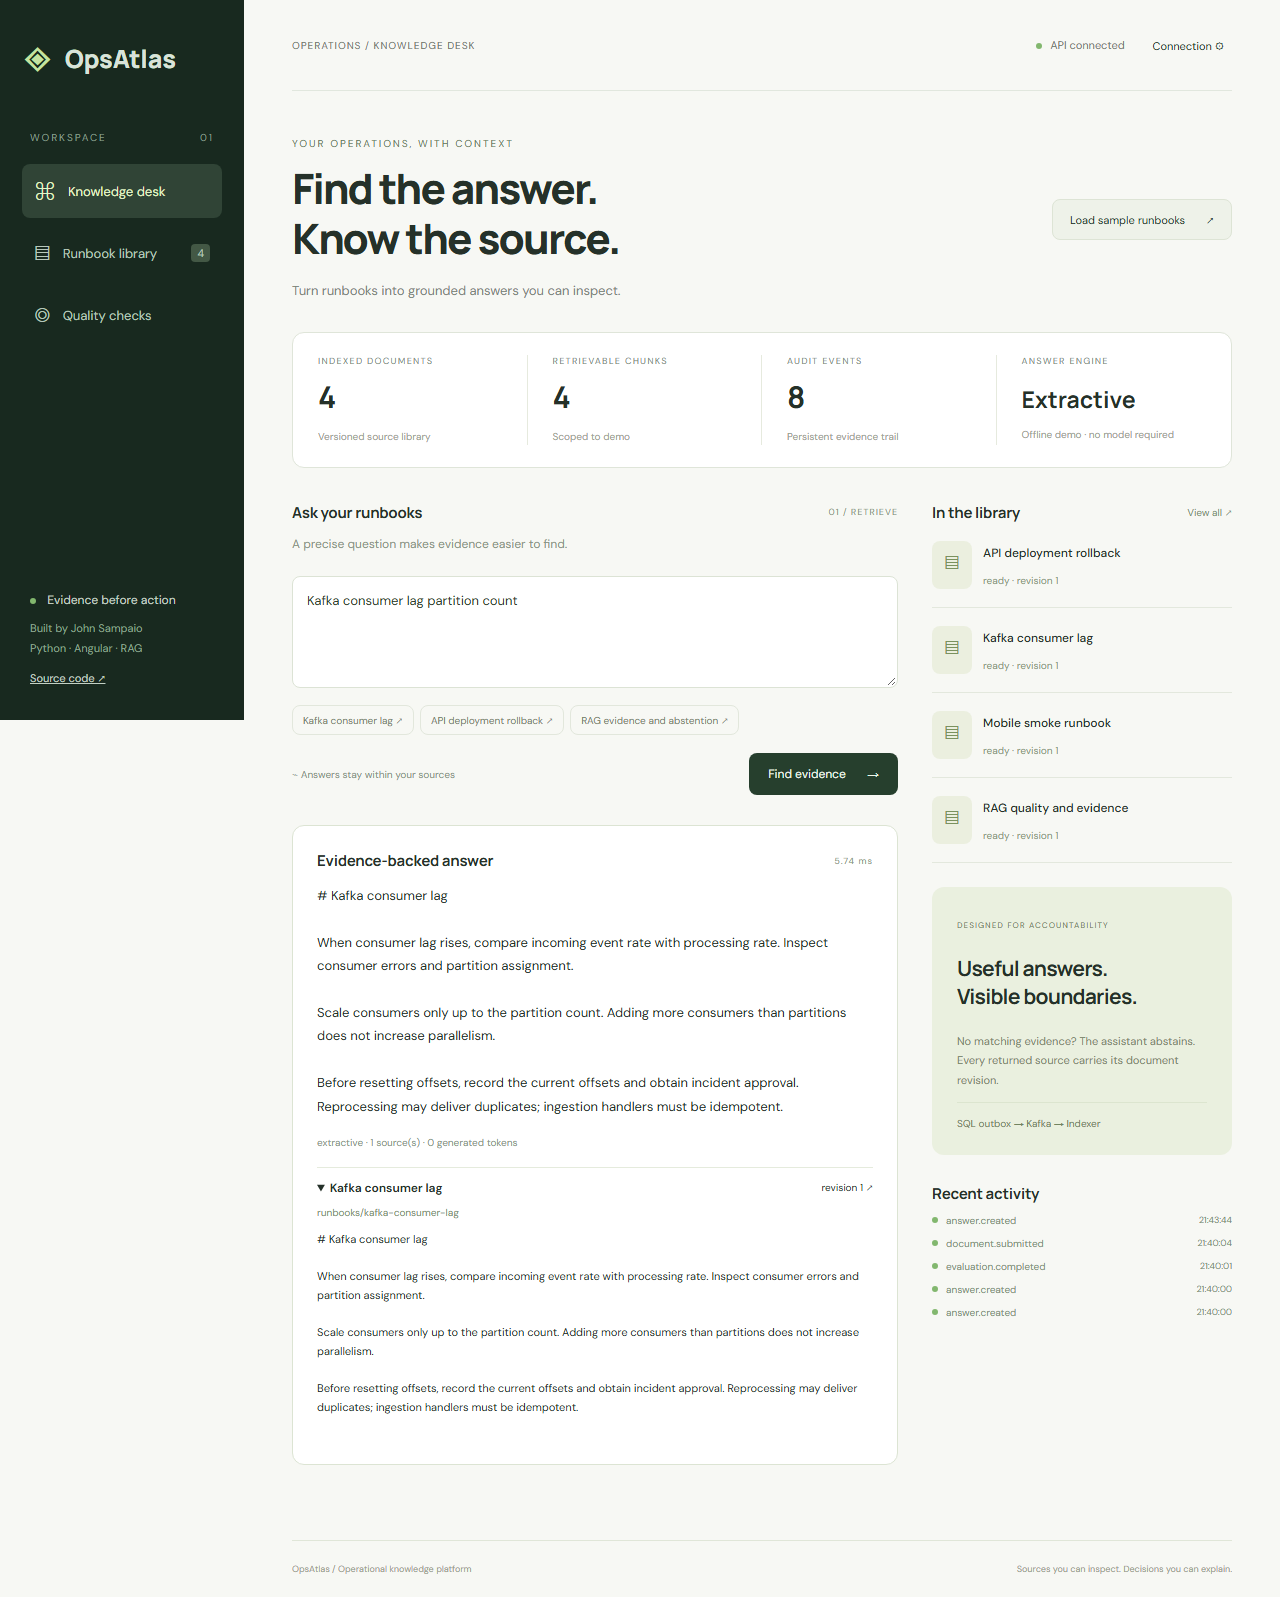
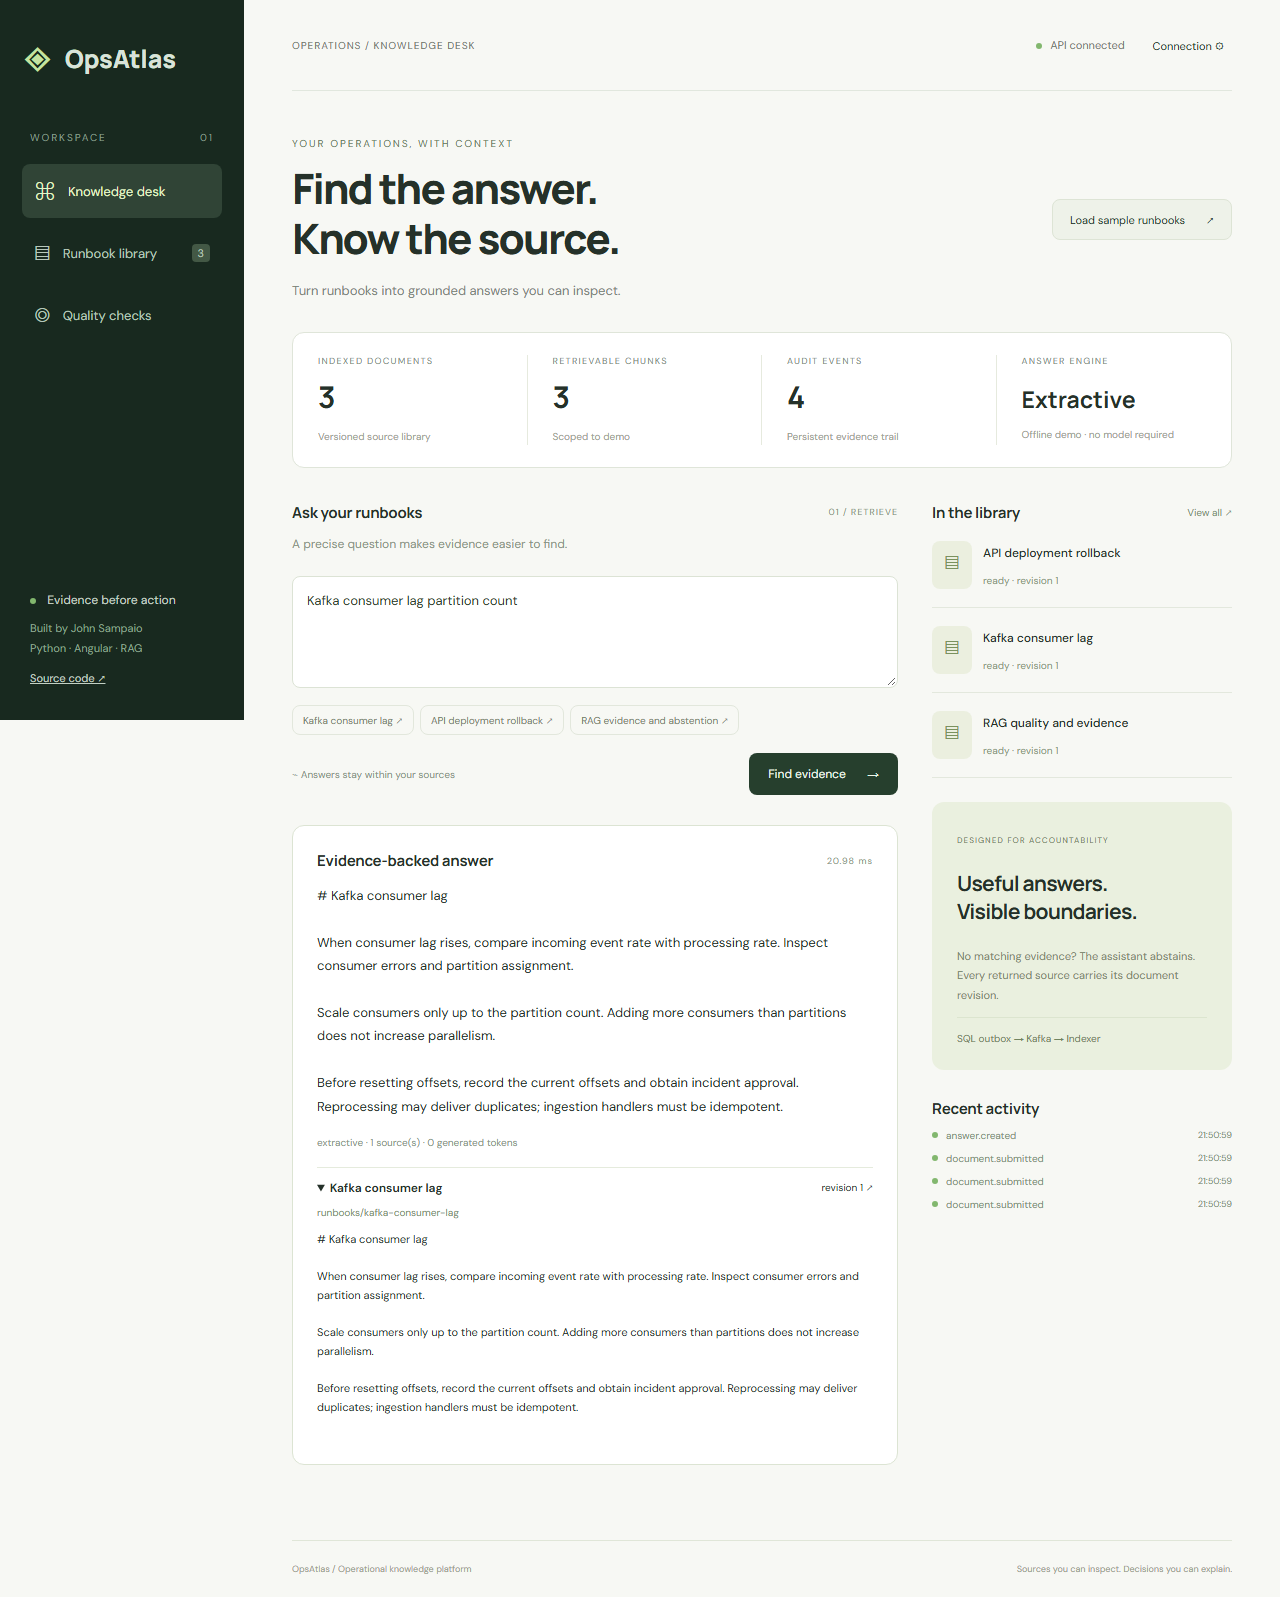
Validate provider contracts and execute Airflow quality tasks in CI

Changed region(s): [[0.7188, 0.4909, 0.9375, 0.8284], [0.9375, 0.7057, 0.9688, 0.8284], [0.7812, 0.4296, 0.875, 0.4602]]

diff --git a/web/playwright.config.ts b/web/playwright.config.ts
@@ -4,8 +4,7 @@ export default defineConfig({
   use: { baseURL: "http://127.0.0.1:4200", screenshot: "only-on-failure" },
   webServer: [
     {
-      command:
-        "uv run uvicorn opsatlas.api:create_app --factory --host 127.0.0.1 --port 8000",
+      command: "uv run python scripts/test_server.py",
       cwd: "..",
       url: "http://127.0.0.1:8000/health/ready",
       reuseExistingServer: !process.env["CI"],

diff --git a/tests/test_providers.py b/tests/test_providers.py
@@ -1,0 +1,87 @@
+import json
+
+import httpx
+import pytest
+
+from opsatlas.config import Settings
+from opsatlas.llm import answer
+from opsatlas.retrieval import embed
+
+
+@pytest.mark.parametrize(
+    "payload",
+    [
+        {"choices": []},
+        {"choices": [{"message": {"content": None}}]},
+        {"choices": [{"message": {"content": "invalid JSON"}}]},
+        {
+            "choices": [
+                {
+                    "message": {
+                        "content": json.dumps(
+                            {"answer": "answer", "citation_ids": ["source"], "abstained": False}
+                        )
+                    }
+                }
+            ],
+            "usage": {"completion_tokens": -1},
+        },
+    ],
+)
+def test_invalid_provider_responses_rejected(monkeypatch, payload):
+    monkeypatch.setattr(
+        "opsatlas.llm.httpx.post",
+        lambda url, **kw: httpx.Response(
+            200,
+            request=httpx.Request("POST", url),
+            json=payload,
+        ),
+    )
+    with pytest.raises(ValueError):
+        answer("question", [{"id": "source", "text": "evidence"}], Settings(llm_mode="llm"))
+
+
+def test_empty_evidence_does_not_invoke_provider(monkeypatch):
+    def fail(*args, **kwargs):
+        raise AssertionError("Must not call the model")
+
+    monkeypatch.setattr("opsatlas.llm.httpx.post", fail)
+    assert answer("question", [], Settings(llm_mode="llm"))["abstained"]
+
+
+@pytest.mark.parametrize(
+    "rows",
+    [
+        [{"index": 0, "embedding": [1, 0]}, {"index": 0, "embedding": [0, 1]}],
+        [{"index": 0, "embedding": [1, 0]}, {"index": 1, "embedding": [1]}],
+        [{"index": 0, "embedding": [1, 0]}],
+    ],
+)
+def test_bad_embedding_batches_rejected(monkeypatch, rows):
+    monkeypatch.setattr(
+        "opsatlas.retrieval.httpx.post",
+        lambda url, **kw: httpx.Response(
+            200,
+            request=httpx.Request("POST", url),
+            json={"data": rows},
+        ),
+    )
+    with pytest.raises(ValueError):
+        embed(["alpha", "beta"], Settings(embedding_model="test-embeddings"))
+
+
+def test_semantic_provider_preserves_batch_order(monkeypatch):
+    monkeypatch.setattr(
+        "opsatlas.retrieval.httpx.post",
+        lambda url, **kw: httpx.Response(
+            200,
+            request=httpx.Request("POST", url),
+            json={
+                "data": [
+                    {"index": 1, "embedding": [0, 1]},
+                    {"index": 0, "embedding": [1, 0]},
+                ]
+            },
+        ),
+    )
+    assert embed(["alpha", "beta"], Settings(embedding_model="test-embeddings")) == [[1, 0], [0, 1]]

diff --git a/src/opsatlas/llm.py b/src/opsatlas/llm.py
@@ -11,6 +11,24 @@ class GeneratedAnswer(BaseModel):
     abstained: bool
 
 
+class ProviderMessage(BaseModel):
+    content: str
+
+
+class ProviderChoice(BaseModel):
+    message: ProviderMessage
+
+
+class ProviderUsage(BaseModel):
+    prompt_tokens: int = Field(default=0, ge=0)
+    completion_tokens: int = Field(default=0, ge=0)
+
+
+class ProviderResponse(BaseModel):
+    choices: list[ProviderChoice] = Field(min_length=1)
+    usage: ProviderUsage = Field(default_factory=ProviderUsage)
+
+
 def answer(question: str, sources: list[dict], settings) -> dict:
     empty = {
         "answer": "I could not find evidence in the indexed runbooks. Try a more specific question.",
@@ -65,17 +83,17 @@ def answer(question: str, sources: list[dict], settings) -> dict:
         },
     )
     response.raise_for_status()
-    payload = response.json()
-    result = GeneratedAnswer.model_validate_json(payload["choices"][0]["message"]["content"])
+    payload = ProviderResponse.model_validate(response.json())
+    result = GeneratedAnswer.model_validate_json(payload.choices[0].message.content)
     allowed = {s["id"] for s in context}
     if (not result.abstained and not result.citation_ids) or set(result.citation_ids) - allowed:
         raise ValueError("The LLM returned unsupported citations")
     if result.abstained:
-        return {**empty, "usage": payload.get("usage", {})}
+        return {**empty, "usage": payload.usage.model_dump()}
     return {
         "answer": result.answer,
         "citations": [s for s in sources if s["id"] in result.citation_ids],
         "abstained": False,
         "mode": "llm",
-        "usage": payload.get("usage", {}),
+        "usage": payload.usage.model_dump(),
     }

diff --git a/src/opsatlas/retrieval.py b/src/opsatlas/retrieval.py
@@ -43,9 +43,13 @@ def embed(texts: list[str], settings) -> list[list[float]]:
     rows = sorted(response.json()["data"], key=lambda row: row["index"])
     if len(rows) != len(texts):
         raise ValueError("Embedding provider returned an incomplete batch")
+    if [row["index"] for row in rows] != list(range(len(texts))):
+        raise ValueError("Embedding provider returned invalid batch indices")
     vectors = [row["embedding"] for row in rows]
     if not vectors or any(not v or any(not math.isfinite(x) for x in v) for v in vectors):
         raise ValueError("Invalid embedding vector")
+    if len({len(vector) for vector in vectors}) != 1:
+        raise ValueError("Embedding provider returned inconsistent dimensions")
     return vectors
 
 

diff --git a/scripts/test_server.py b/scripts/test_server.py
@@ -1,0 +1,17 @@
+"""Run browser tests against a fresh disposable database on every invocation."""
+
+import os
+import tempfile
+from pathlib import Path
+
+import uvicorn
+
+if __name__ == "__main__":
+    with tempfile.TemporaryDirectory(prefix="opsatlas-e2e-") as folder:
+        os.environ["OPSATLAS_DATABASE_URL"] = "sqlite:///" + (Path(folder) / "demo.db").as_posix()
+        os.environ["OPSATLAS_INGESTION_MODE"] = "inline"
+        os.environ["OPSATLAS_LLM_MODE"] = "extractive"
+        os.environ["OPSATLAS_EMBEDDING_MODEL"] = ""
+        os.environ["OPSATLAS_API_KEY"] = ""
+        os.environ["OPSATLAS_OTLP_ENDPOINT"] = ""
+        uvicorn.run("opsatlas.api:create_app", factory=True, host="127.0.0.1", port=8000)

diff --git a/tests/conftest.py b/tests/conftest.py
@@ -1,0 +1,15 @@
+import pytest
+
+
+@pytest.fixture(autouse=True)
+def isolate_provider_settings(monkeypatch):
+    """Never let a developer's .env turn unit tests into paid model calls."""
+    for name, value in {
+        "INGESTION_MODE": "inline",
+        "LLM_MODE": "extractive",
+        "EMBEDDING_MODEL": "",
+        "API_KEY": "",
+        "LLM_API_KEY": "",
+        "OTLP_ENDPOINT": "",
+    }.items():
+        monkeypatch.setenv("OPSATLAS_" + name, value)

diff --git a/infra/airflow/dags/knowledge_quality.py b/infra/airflow/dags/knowledge_quality.py
@@ -49,4 +49,9 @@ def knowledge_quality():
     evaluate(seed())
 
 
-knowledge_quality()
+workflow = knowledge_quality()
+
+if __name__ == "__main__":
+    result = workflow.test()
+    if result.state != "success":
+        raise RuntimeError(f"Airflow DAG test failed: {result.state}")
